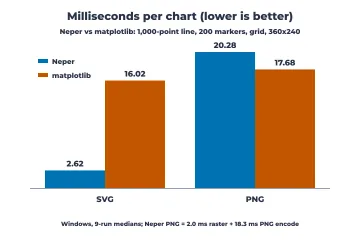
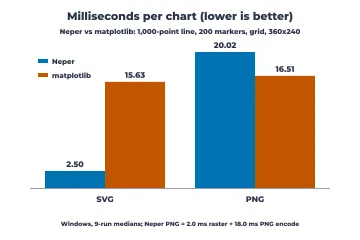
blog: charts guide reports compact SVG and why PNG trails matplotlib
The speed section takes the October 5 benchmark: SVG 2.50 ms per chart
against matplotlib's 15.63 and now 30.2 KB against 44.4 KB, after the SVG
writer moved to 0.01 px numbers (62.0 KB before); PNG 20.02 against 16.51.
It explains the PNG gap with the encoder measurements (zlib 1.74 ms and
11.3 KB on the same pixels against Neper's fixed-Huffman deflate at about
18 ms and 14.0 KB) and notes the faster encoder is queued.

diff --git a/docs/blog/charts-field-guide.html b/docs/blog/charts-field-guide.html
@@ -14,7 +14,7 @@
   <meta property="og:url" content="https://neper.dev/blog/charts-field-guide.html">
   <meta property="og:image" content="https://neper.dev/blog/img/charts-field-guide.svg">
   <meta property="article:published_time" content="2026-10-04">
-  <meta property="article:modified_time" content="2026-10-04">
+  <meta property="article:modified_time" content="2026-10-05">
   <meta name="twitter:card" content="summary_large_image">
   <link rel="icon" href="../gtm/logo/neper-icon.svg" type="image/svg+xml">
   <link rel="stylesheet" href="../ux/components/bundle.css">
@@ -61,7 +61,7 @@
 
     * { box-sizing: border-box; }
     @media (hover: hover) and (pointer: fine) {
-      body.nu-page, body.nu-page a { cursor: url("../gtm/neper-cursor.svg") 9 7, auto; }
+      body.nu-page, body.nu-page a { cursor: url("../gtm/neper-cursor.svg") 7 5, auto; }
     }
     body.nu-page { margin: 0; background: var(--surface); color: var(--on-surface); font: 400 16px/26px var(--font-sans); letter-spacing: .15px; }
     a { color: var(--primary); }
@@ -153,7 +153,7 @@
       <div class="eyebrow">&gt; blog // library</div>
       <h1>234 charts, and when to use each</h1>
       <p class="meta">October 4, 2026 · <code>e.gfx.chart</code>, <code>e.gfx.chart.scene</code>, <code>e.gfx.chart.svg</code>, <code>e.gfx.chart.pdf</code>, <code>e.gfx.chart.locale</code>, <code>e.gfx.chart.widget</code></p>
-      <p class="meta">Updated October 4, 2026: PDF export, and <a href="#speed">speed measured against matplotlib</a>.</p>
+      <p class="meta">Updated October 5, 2026: PDF export, <a href="#speed">speed measured against matplotlib</a>, and SVG files a third smaller.</p>
       <img class="banner" src="img/charts-field-guide.svg" width="1200" height="630" alt="234 charts, and when to use each: bars, lines, distributions, control charts, maps and diagrams, all drawn by Neper.">
       <p class="lede">Neper's chart library now draws 234 kinds of chart, from a bar chart to a Laney u′ control chart, a Kaplan-Meier curve, a Sankey diagram and a Nyquist plot. That is too many to pick from by scrolling. This post is the guide we wanted ourselves: each chart, the question it answers, and when to reach for something else instead.</p>
       <p>Every picture here was rendered by Neper itself, by <code>examples/chart_gallery.e</code> through the CPU scene renderer and PNG encoder, and each has an SVG twin streamed from the same layout. Behind the gallery, 156 test programs check the geometry, statistics and refusal paths on Windows and on Linux.</p>
@@ -213,21 +213,21 @@ wrote revenue.svg: 836 bytes</code></pre>
       <h2 id="speed">How fast is it?</h2>
       <p>We timed one realistic chart in Neper and in matplotlib: a 1,000-point line, 200 square markers, a y grid with tick labels and a title at 360×240 pixels, built from the same data. Each pass draws 200 charts and writes them to memory as SVG and as PNG. matplotlib uses its Agg backend and a new figure per chart, as a reporting script would, and keeps SVG text as text, as Neper does. The times are medians of nine runs on one Windows laptop (Intel Core i5-12500H, Python 3.12.10, matplotlib 3.9.4).</p>
       <div class="table-scroll"><table><thead><tr><th>Per chart</th><th>Neper</th><th>matplotlib</th><th>Faster</th></tr></thead><tbody>
-        <tr><td>SVG</td><td class="rank-1">2.62 ms</td><td>16.02 ms</td><td>Neper, 6.1×</td></tr>
-        <tr><td>PNG</td><td>20.28 ms</td><td class="rank-1">17.68 ms</td><td>matplotlib, 1.15×</td></tr>
-        <tr><td>Layout only</td><td>0.16 ms</td><td>–</td><td></td></tr>
-        <tr><td>Rasterize only, no encoding</td><td>2.00 ms</td><td>–</td><td></td></tr>
-        <tr><td>SVG / PNG file size</td><td>62.0 / 14.0 KB</td><td>44.4 / 11.2 KB</td><td></td></tr>
-        <tr><td>Whole run, both passes</td><td>5.0 s</td><td>7.6 s</td><td>matplotlib import: 0.55 s</td></tr>
+        <tr><td>SVG</td><td class="rank-1">2.50 ms</td><td>15.63 ms</td><td>Neper, 6.2×</td></tr>
+        <tr><td>PNG</td><td>20.02 ms</td><td class="rank-1">16.51 ms</td><td>matplotlib, 1.21×</td></tr>
+        <tr><td>Layout only</td><td>0.15 ms</td><td>–</td><td></td></tr>
+        <tr><td>Rasterize only, no encoding</td><td>1.99 ms</td><td>–</td><td></td></tr>
+        <tr><td>SVG / PNG file size</td><td>30.2 / 14.0 KB</td><td>44.4 / 11.2 KB</td><td></td></tr>
+        <tr><td>Whole run, both passes</td><td>5.0 s</td><td>7.2 s</td><td>matplotlib import: 0.53 s</td></tr>
       </tbody></table></div>
-      <figure><img src="img/charts/benchmark_matplotlib.webp" width="360" height="240" loading="lazy" decoding="async" alt="Grouped bar chart of milliseconds per chart: SVG 2.62 for Neper against 16.02 for matplotlib; PNG 20.28 against 17.68." style="max-width: 540px; background: #fff"><figcaption>The same results, drawn by Neper's grouped bar chart.</figcaption></figure>
+      <figure><img src="img/charts/benchmark_matplotlib.webp" width="360" height="240" loading="lazy" decoding="async" alt="Grouped bar chart of milliseconds per chart: SVG 2.50 for Neper against 15.63 for matplotlib; PNG 20.02 against 16.51." style="max-width: 540px; background: #fff"><figcaption>The same results, drawn by Neper's grouped bar chart.</figcaption></figure>
       <p>We report both results, because one of them is a loss.</p>
       <ul>
-        <li><strong>SVG is 6.1× faster.</strong> This is where the design pays off: borrowed columns are laid out into caller-owned storage in 0.16 ms and streamed straight to the writer, with no figure object model to build and tear down for every chart.</li>
-        <li><strong>PNG is 15% slower.</strong> The renderer is not the problem: it rasterizes a chart in 2.0 ms. The other 18 ms is the PNG encoder's deflate, the next thing we will make faster. Neper's PNGs are also about 25% larger.</li>
-        <li><strong>Neper's SVG files are larger</strong> (62 KB against 44 KB) because they write every coordinate at full float precision, where matplotlib rounds.</li>
+        <li><strong>SVG is 6.2× faster.</strong> This is where the design pays off: borrowed columns are laid out into caller-owned storage in 0.15 ms and streamed straight to the writer, with no figure object model to build and tear down for every chart.</li>
+        <li><strong>PNG is 21% slower, and the files are about 25% larger.</strong> The renderer is not the problem: it rasterizes a chart in 2.0 ms. The other 18 ms is the PNG encoder. Encoding the very pixels Neper drew with zlib at level 6, which is what matplotlib uses through Pillow, takes 1.74 ms and writes 11.3 KB; Neper's deflate takes about 18 ms for 14.0 KB. It writes only fixed Huffman codes (worth about 1.6 KB here), does no lazy matching and restarts its search window every 32 KiB (about 1.1 KB more), and the PNG layer computes its CRC one bit at a time. Smarter row filters would not help: Pillow's adaptive filters made this image larger. Faster, smaller encoding is queued as the next piece of library work.</li>
+        <li><strong>Neper's SVG files are 32% smaller</strong> (30.2 KB against 44.4 KB). They used to be larger, at 62.0 KB, because the writer printed every coordinate with full float digits, such as 81.85714721679688. It now writes numbers to 0.01 px and leaves out attributes that only restate SVG defaults; across the gallery that makes the SVG files a third smaller (a quarter counting the one that embeds a 610 KB font), and an independent renderer finds no change beyond anti-aliasing along edges.</li>
       </ul>
-      <p>The same Neper program on Linux (WSL) runs within a few percent of these times and writes byte-identical files. Not measured: ggplot2, base R graphics and lattice, which need an R installation this machine does not have, and matplotlib on Linux. The harness is in <code>benchmarks/charts</code>: <code>python benchmarks/charts/run.py &lt;neper-self&gt; 9</code> builds the Neper side, runs both nine times and writes the medians to <code>results/</code>. Single runs on this shared machine varied by up to half, which is why the table uses medians.</p>
+      <p>The same Neper program on Linux (WSL) runs within a few percent of these times and writes output of exactly the same size. Not measured: ggplot2, base R graphics and lattice, which need an R installation this machine does not have, and matplotlib on Linux. The harness is in <code>benchmarks/charts</code>: <code>python benchmarks/charts/run.py &lt;neper-self&gt; 9</code> builds the Neper side, runs both nine times and writes the medians to <code>results/</code>. Single runs on this shared machine varied by up to half, which is why the table uses medians.</p>
       <h2>Start from the question</h2>
       <p>Most bad charts are good charts answering the wrong question. Decide what you want the reader to see, then pick from the matching family:</p>
       <div class="table-scroll"><table><thead><tr><th>If the question is…</th><th>Start with</th><th>Family</th></tr></thead><tbody>
@@ -606,7 +606,7 @@ wrote revenue.svg: 836 bytes</code></pre>
       <h2>What is not there yet</h2>
       <p>The gallery is complete against its plan, but the library is not finished. Still open:</p>
       <ul>
-        <li>a faster PNG encoder: drawing a chart takes 2 ms, deflate takes the other 18 (see <a href="#speed">the benchmark</a>);</li>
+        <li>a faster PNG encoder: drawing a chart takes 2 ms, deflate takes the other 18 (see <a href="#speed">the benchmark</a>), queued next;</li>
         <li>embedded fonts and compression in PDF output;</li>
         <li>font subsetting for embedded SVG fonts (the whole font is embedded now);</li>
         <li>leader lines for labels that do not fit, and pointer events on charts in the UI;</li>
